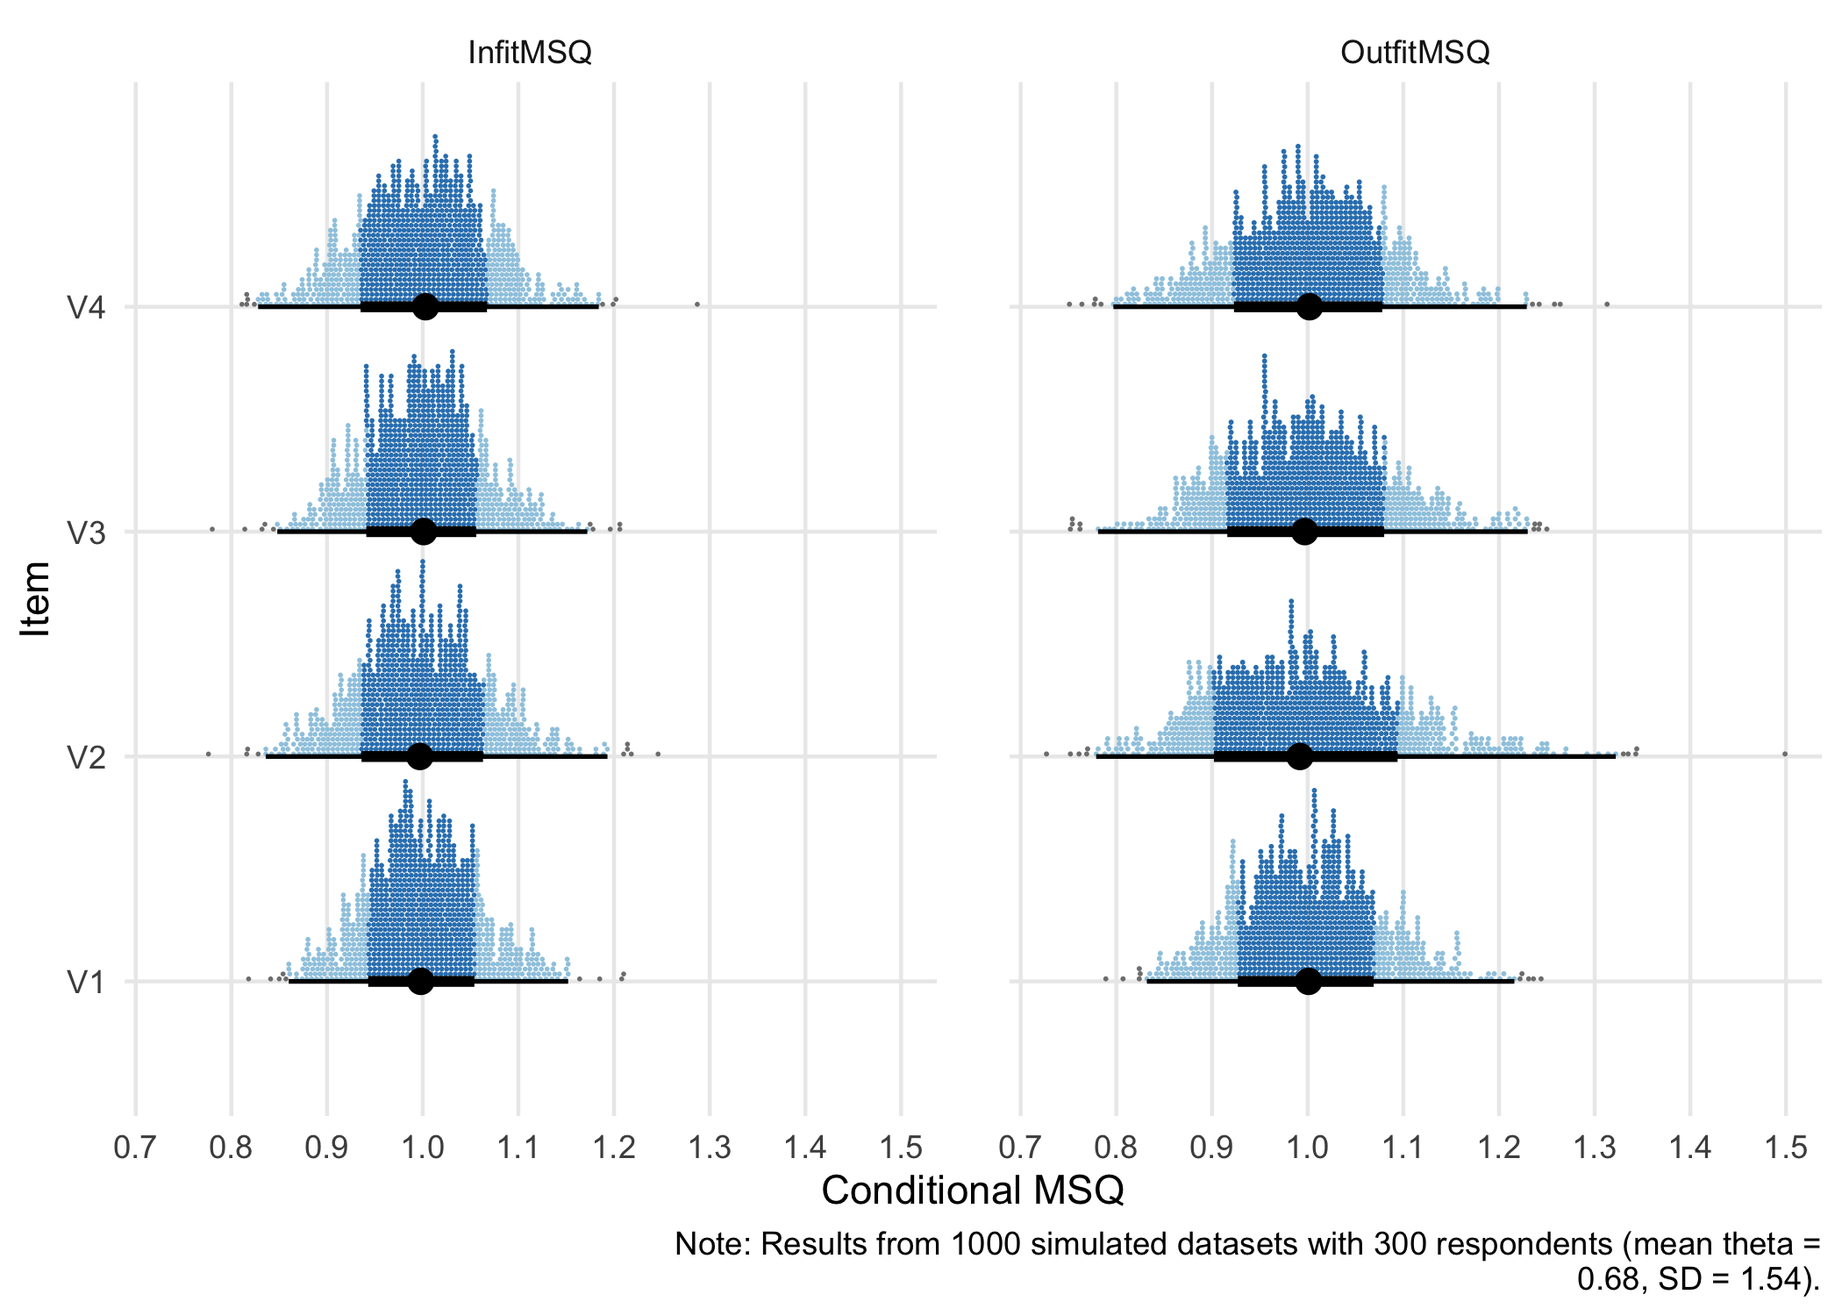
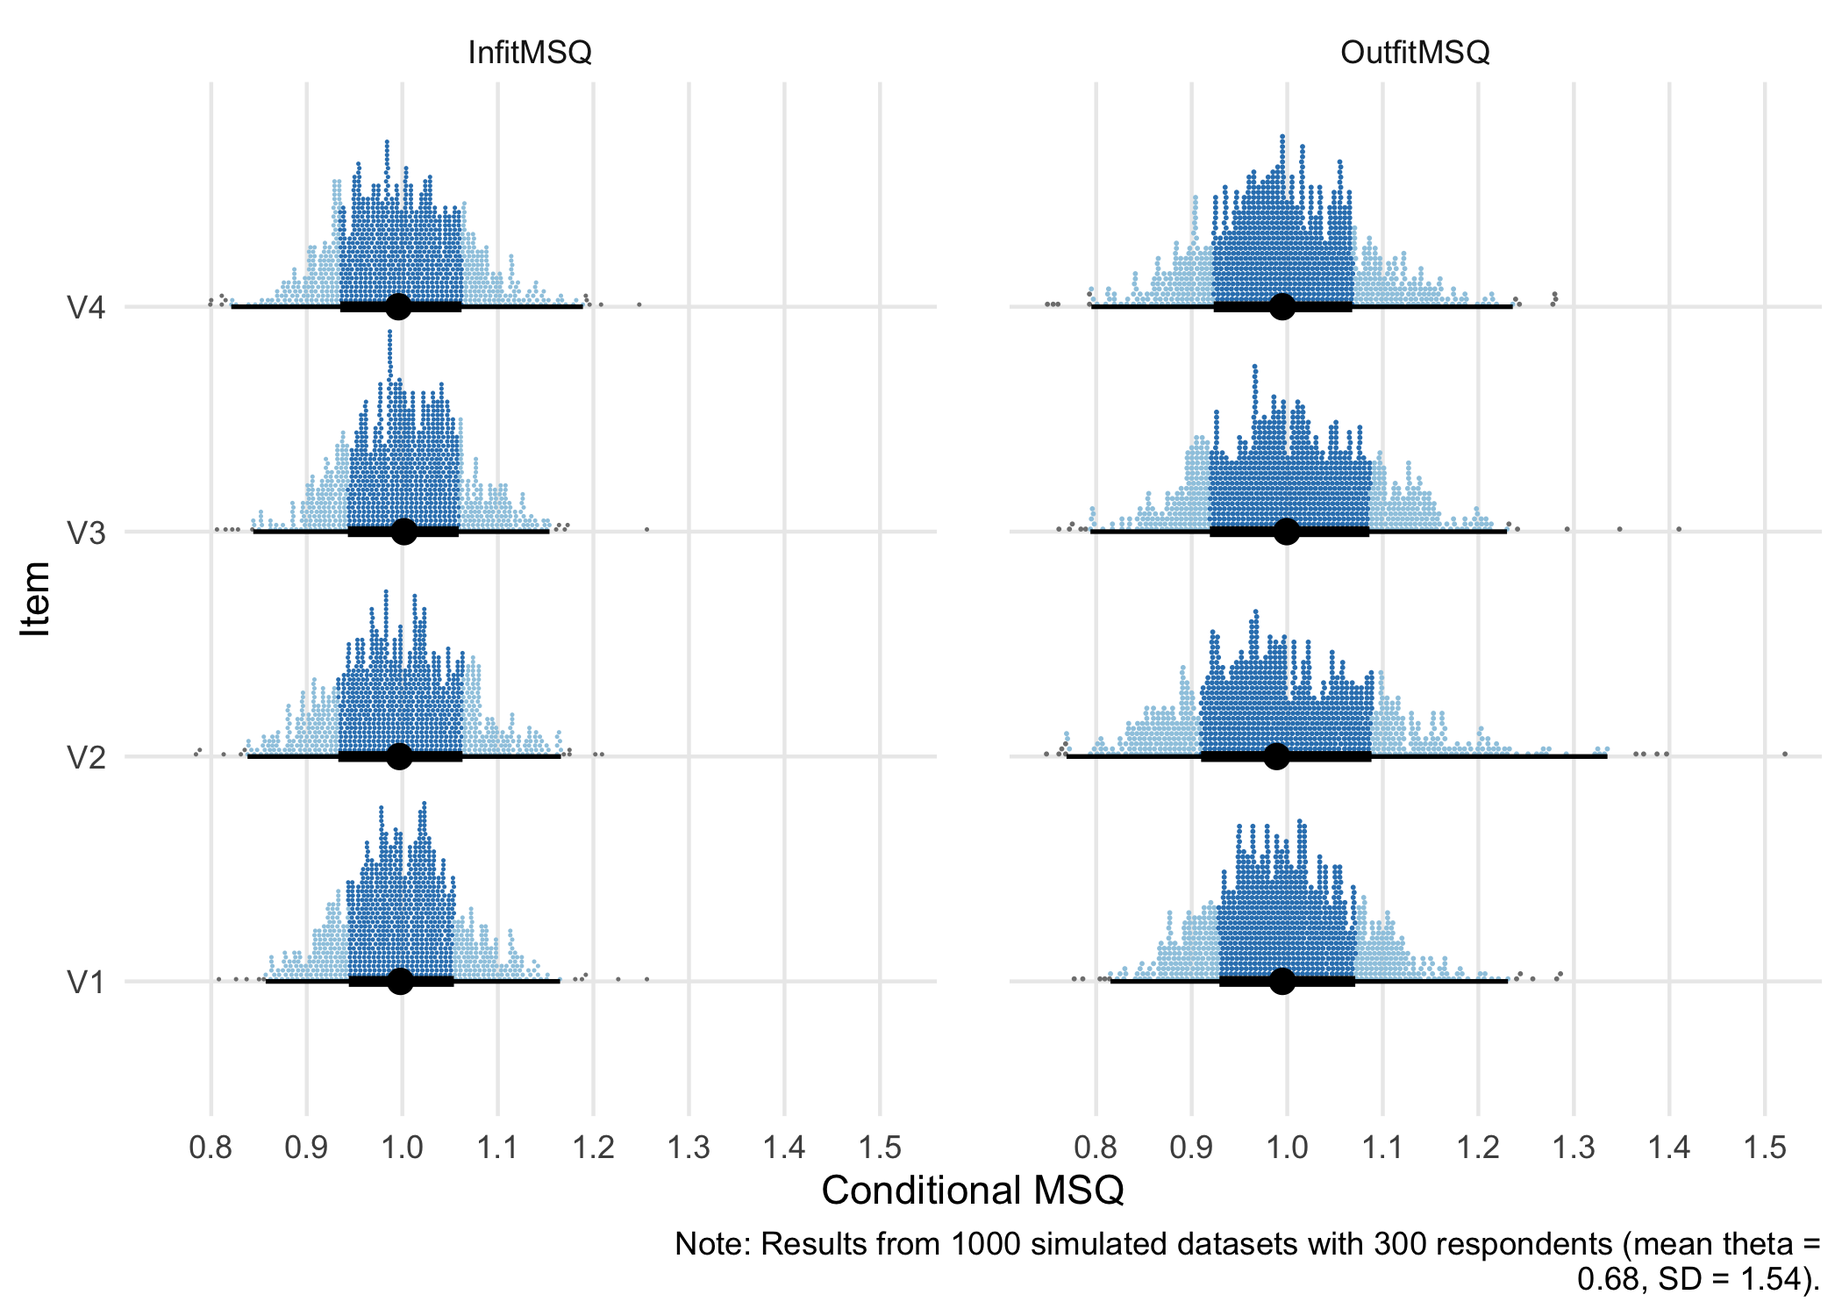
item fit updates

diff --git a/docs/simcutoffs.html b/docs/simcutoffs.html
@@ -277,17 +277,17 @@ div.csl-indent {
 </details><div class="cell-output cell-output-stdout">
 <pre><code>List of 8
  $ results    :'data.frame':    1000 obs. of  3 variables:
-  ..$ mean: num [1:1000] -0.264 -0.264 -0.249 -0.269 -0.251 ...
-  ..$ max : num [1:1000] -0.121 -0.165 -0.172 -0.155 -0.171 ...
-  ..$ diff: num [1:1000] 0.1424 0.0986 0.0765 0.1141 0.0801 ...
+  ..$ mean: num [1:1000] -0.256 -0.235 -0.262 -0.265 -0.259 ...
+  ..$ max : num [1:1000] -0.155 -0.175 -0.209 -0.206 -0.124 ...
+  ..$ diff: num [1:1000] 0.1009 0.0596 0.0523 0.0587 0.1344 ...
  $ sample_n   : int 300
  $ sample_mean: num 0.684
  $ sample_sd  : num 1.54
- $ max_diff   : num 0.231
- $ sd_diff    : num 0.0346
- $ p95        : Named num 0.152
+ $ max_diff   : num 0.221
+ $ sd_diff    : num 0.035
+ $ p95        : Named num 0.154
   ..- attr(*, "names")= chr "95%"
- $ p99        : Named num 0.183
+ $ p99        : Named num 0.192
   ..- attr(*, "names")= chr "99%"</code></pre>
 </div>
 </div>
@@ -337,7 +337,7 @@ div.csl-indent {
 <tfoot>
 <tr><td style="padding: 0; " colspan="100%"><span style="font-style: italic;">Note: </span></td></tr>
 <tr><td style="padding: 0; " colspan="100%">
-<sup></sup> Relative cut-off value (highlighted in red) is -0.043, which is 0.183 above the average correlation (-0.226).</td></tr>
+<sup></sup> Relative cut-off value (highlighted in red) is -0.034, which is 0.192 above the average correlation (-0.226).</td></tr>
 </tfoot>
 </table>
 </div>
@@ -355,7 +355,7 @@ div.csl-indent {
 <details open="" class="code-fold"><summary>Code</summary><div class="sourceCode" id="cb7"><pre class="downlit sourceCode r code-with-copy"><code class="sourceCode R"><span><span class="fu"><a href="https://rdrr.io/r/base/summary.html">summary</a></span><span class="op">(</span><span class="va">res_cor</span><span class="op">$</span><span class="va">results</span><span class="op">$</span><span class="va">diff</span><span class="op">)</span></span></code><button title="Copy to Clipboard" class="code-copy-button"><i class="bi"></i></button></pre></div>
 </details><div class="cell-output cell-output-stdout">
 <pre><code>   Min. 1st Qu.  Median    Mean 3rd Qu.    Max. 
-0.01759 0.06613 0.08683 0.09097 0.11274 0.23144 </code></pre>
+0.01686 0.06628 0.08726 0.09174 0.11379 0.22099 </code></pre>
 </div>
 </div>
 </section><section id="conditional-item-fit" class="level2" data-number="3"><h2 data-number="3" class="anchored" data-anchor-id="conditional-item-fit">
@@ -383,13 +383,13 @@ Note
 <details open="" class="code-fold"><summary>Code</summary><div class="sourceCode" id="cb10"><pre class="downlit sourceCode r code-with-copy"><code class="sourceCode R"><span><span class="va">itemfit_sim</span><span class="op">[[</span><span class="fl">1</span><span class="op">]</span><span class="op">]</span></span></code><button title="Copy to Clipboard" class="code-copy-button"><i class="bi"></i></button></pre></div>
 </details><div class="cell-output cell-output-stdout">
 <pre><code>  Item InfitMSQ OutfitMSQ
-1   V1    0.938     0.908
-2   V2    1.004     1.064
-3   V3    1.012     1.048
-4   V4    1.066     1.065</code></pre>
+1   V1    1.079     1.024
+2   V2    0.987     1.017
+3   V3    1.037     1.065
+4   V4    0.873     0.839</code></pre>
 </div>
 </div>
-<p>This object can in turn be used with three different functions. Most importantly, you can use it with <code><a href="https://rdrr.io/pkg/RISEkbmRasch/man/RIitemfit.html">RIitemfit()</a></code> to set cutoff values for both MSQ and ZSTD based on your sample size and item parameters. This uses the 1st and 99th percentile values for each individual item.</p>
+<p>This object can in turn be used with three different functions. Most importantly, you can use it with <code><a href="https://rdrr.io/pkg/RISEkbmRasch/man/RIitemfit.html">RIitemfit()</a></code> to set cutoff values for both MSQ and ZSTD based on your sample size and item parameters. <code><a href="https://rdrr.io/pkg/RISEkbmRasch/man/RIitemfit.html">RIitemfit()</a></code> uses the .05 and 99.5 percentile values for each individual item. The cutoff limit might be added as a user option later.</p>
 <div class="cell">
 <details open="" class="code-fold"><summary>Code</summary><div class="sourceCode" id="cb12"><pre class="downlit sourceCode r code-with-copy"><code class="sourceCode R"><span><span class="fu"><a href="https://rdrr.io/pkg/RISEkbmRasch/man/RIitemfit.html">RIitemfit</a></span><span class="op">(</span><span class="va">pcmdat2</span>, simcut <span class="op">=</span> <span class="va">itemfit_sim</span><span class="op">)</span></span></code><button title="Copy to Clipboard" class="code-copy-button"><i class="bi"></i></button></pre></div>
 </details><div class="cell-output-display">
@@ -405,30 +405,30 @@ Note
 <tr>
 <td style="text-align:left;"> I1 </td>
    <td style="text-align:left;"> <span style="     color: black !important;">1.08</span> </td>
-   <td style="text-align:left;"> [0.874, 1.141] </td>
+   <td style="text-align:left;"> [0.857, 1.165] </td>
    <td style="text-align:left;"> <span style="     color: black !important;">1.069</span> </td>
-   <td style="text-align:left;"> [0.844, 1.192] </td>
+   <td style="text-align:left;"> [0.815, 1.231] </td>
   </tr>
 <tr>
 <td style="text-align:left;"> I2 </td>
    <td style="text-align:left;"> <span style="     color: black !important;">1.155</span> </td>
-   <td style="text-align:left;"> [0.854, 1.164] </td>
+   <td style="text-align:left;"> [0.838, 1.166] </td>
    <td style="text-align:left;"> <span style="     color: black !important;">1.084</span> </td>
-   <td style="text-align:left;"> [0.792, 1.269] </td>
+   <td style="text-align:left;"> [0.769, 1.335] </td>
   </tr>
 <tr>
 <td style="text-align:left;"> I3 </td>
    <td style="text-align:left;"> <span style="     color: red !important;">0.828</span> </td>
-   <td style="text-align:left;"> [0.866, 1.146] </td>
-   <td style="text-align:left;"> <span style="     color: red !important;">0.802</span> </td>
-   <td style="text-align:left;"> [0.806, 1.217] </td>
+   <td style="text-align:left;"> [0.844, 1.154] </td>
+   <td style="text-align:left;"> <span style="     color: black !important;">0.802</span> </td>
+   <td style="text-align:left;"> [0.794, 1.23] </td>
   </tr>
 <tr>
 <td style="text-align:left;"> I4 </td>
    <td style="text-align:left;"> <span style="     color: black !important;">1.007</span> </td>
-   <td style="text-align:left;"> [0.837, 1.165] </td>
+   <td style="text-align:left;"> [0.821, 1.189] </td>
    <td style="text-align:left;"> <span style="     color: black !important;">1.024</span> </td>
-   <td style="text-align:left;"> [0.813, 1.198] </td>
+   <td style="text-align:left;"> [0.795, 1.236] </td>
   </tr>
 </tbody>
 <tfoot>
@@ -486,15 +486,18 @@ attached base packages:
  [8] datasets  methods   base     
 
 other attached packages:
- [1] RASCHplot_0.1.0    ggdist_3.3.2       doParallel_1.0.17  iterators_1.0.14  
- [5] foreach_1.5.2      RISEkbmRasch_0.2.2 janitor_2.2.0      iarm_0.4.3        
- [9] hexbin_1.28.3      catR_3.17          glue_1.7.0         ggrepel_0.9.5     
-[13] patchwork_1.2.0    reshape_0.8.9      matrixStats_1.3.0  psychotree_0.16-1 
-[17] psychotools_0.7-4  partykit_1.2-21    mvtnorm_1.2-5      libcoin_1.0-10    
-[21] psych_2.4.6.26     mirt_1.42          lattice_0.22-6     eRm_1.0-6         
-[25] lubridate_1.9.3    forcats_1.0.0      stringr_1.5.1      dplyr_1.1.4       
-[29] purrr_1.0.2        readr_2.1.5        tidyr_1.3.1        tibble_3.2.1      
-[33] ggplot2_3.5.1      tidyverse_2.0.0    kableExtra_1.4.0   formattable_0.2.1 
+ [1] RASCHplot_0.1.0      ggdist_3.3.2         doParallel_1.0.17   
+ [4] iterators_1.0.14     foreach_1.5.2        RISEkbmRasch_0.2.2.1
+ [7] janitor_2.2.0        iarm_0.4.3           hexbin_1.28.3       
+[10] catR_3.17            glue_1.7.0           ggrepel_0.9.5       
+[13] patchwork_1.2.0      reshape_0.8.9        matrixStats_1.3.0   
+[16] psychotree_0.16-1    psychotools_0.7-4    partykit_1.2-21     
+[19] mvtnorm_1.2-5        libcoin_1.0-10       psych_2.4.6.26      
+[22] mirt_1.42            lattice_0.22-6       eRm_1.0-6           
+[25] lubridate_1.9.3      forcats_1.0.0        stringr_1.5.1       
+[28] dplyr_1.1.4          purrr_1.0.2          readr_2.1.5         
+[31] tidyr_1.3.1          tibble_3.2.1         ggplot2_3.5.1       
+[34] tidyverse_2.0.0      kableExtra_1.4.0     formattable_0.2.1   
 
 loaded via a namespace (and not attached):
   [1] later_1.3.2          splines_4.4.1        R.oo_1.26.0         
@@ -1119,7 +1122,7 @@ window.document.addEventListener("DOMContentLoaded", function (event) {
 <span id="cb17-84"><a href="#cb17-84" aria-hidden="true" tabindex="-1"></a>While conditional item fit is a huge step towards getting correct item fit values <span class="co">[</span><span class="ot">@christensen_item_2012;@muller_item_2020;@buchardt_visualizing_2023</span><span class="co">]</span>, we also need to know the range of values that are plausible for items fitting the Rasch model in the current context. The specific properties of the sample and the items is used to simulate multiple datasets that fit the Rasch model, to understand the variation in item fit that can be expected. The simulation results can then be compared with the observed data.</span>
 <span id="cb17-85"><a href="#cb17-85" aria-hidden="true" tabindex="-1"></a></span>
 <span id="cb17-86"><a href="#cb17-86" aria-hidden="true" tabindex="-1"></a>::: {.callout-note}</span>
-<span id="cb17-87"><a href="#cb17-87" aria-hidden="true" tabindex="-1"></a>We will use 1000 simulations, but no extensive tests have been made (yet) to determine a reasonable number of simulations. The more items/thresholds and the bigger your sample size, the more time this simulation will take. If you have more cpu cores, this will reduce the time (please remember to not use all cores, leave 1-2 unused). To give some reference, the code below (n = 300, 4 items, 4 response categories) using 500 iterations took 7.7 seconds on 8 cpu cores and 11.7 seconds on 4 cores. 1000 iterations on 8 cores took 12.8 seconds (based on single runs).</span>
+<span id="cb17-87"><a href="#cb17-87" aria-hidden="true" tabindex="-1"></a>We will use 1000 simulations, but no extensive tests have been made (yet) to determine a reasonable number of simulations. The more items/thresholds and the bigger your sample size, the more time this simulation will take. If you have more cpu cores, this will reduce the time (please remember to not use all cores, leave 1-2 unused). To give some reference, the code below (n = 300, 4 items, 4 response categories per item) using 500 iterations took 7.7 seconds on 8 cpu cores and 11.7 seconds on 4 cores. 1000 iterations on 8 cores took 12.8 seconds (based on single runs).</span>
 <span id="cb17-88"><a href="#cb17-88" aria-hidden="true" tabindex="-1"></a>:::</span>
 <span id="cb17-89"><a href="#cb17-89" aria-hidden="true" tabindex="-1"></a></span>
 <span id="cb17-92"><a href="#cb17-92" aria-hidden="true" tabindex="-1"></a><span class="in">```{r}</span></span>
@@ -1134,37 +1137,38 @@ window.document.addEventListener("DOMContentLoaded", function (event) {
 <span id="cb17-103"><a href="#cb17-103" aria-hidden="true" tabindex="-1"></a>This object can in turn be used with three different</span>
 <span id="cb17-104"><a href="#cb17-104" aria-hidden="true" tabindex="-1"></a>functions. Most importantly, you can use it with <span class="in">`RIitemfit()`</span> to set</span>
 <span id="cb17-105"><a href="#cb17-105" aria-hidden="true" tabindex="-1"></a>cutoff values for both MSQ and ZSTD based on your sample size and item</span>
-<span id="cb17-106"><a href="#cb17-106" aria-hidden="true" tabindex="-1"></a>parameters. This uses the 1st and 99th percentile values for each individual item.</span>
-<span id="cb17-107"><a href="#cb17-107" aria-hidden="true" tabindex="-1"></a></span>
-<span id="cb17-110"><a href="#cb17-110" aria-hidden="true" tabindex="-1"></a><span class="in">```{r}</span></span>
-<span id="cb17-111"><a href="#cb17-111" aria-hidden="true" tabindex="-1"></a><span class="fu">RIitemfit</span>(pcmdat2, <span class="at">simcut =</span> itemfit_sim)</span>
-<span id="cb17-112"><a href="#cb17-112" aria-hidden="true" tabindex="-1"></a><span class="in">```</span></span>
-<span id="cb17-113"><a href="#cb17-113" aria-hidden="true" tabindex="-1"></a></span>
-<span id="cb17-114"><a href="#cb17-114" aria-hidden="true" tabindex="-1"></a>The function <span class="in">`RIgetfitPlot()`</span> uses the package <span class="in">`ggdist`</span> to plot the</span>
-<span id="cb17-115"><a href="#cb17-115" aria-hidden="true" tabindex="-1"></a>distribution of fit values from the simulation results.</span>
-<span id="cb17-116"><a href="#cb17-116" aria-hidden="true" tabindex="-1"></a></span>
-<span id="cb17-119"><a href="#cb17-119" aria-hidden="true" tabindex="-1"></a><span class="in">```{r}</span></span>
-<span id="cb17-120"><a href="#cb17-120" aria-hidden="true" tabindex="-1"></a><span class="fu">RIgetfitPlot</span>(itemfit_sim)</span>
-<span id="cb17-121"><a href="#cb17-121" aria-hidden="true" tabindex="-1"></a><span class="in">```</span></span>
-<span id="cb17-122"><a href="#cb17-122" aria-hidden="true" tabindex="-1"></a></span>
-<span id="cb17-123"><a href="#cb17-123" aria-hidden="true" tabindex="-1"></a><span class="fu">## Visualizing conditional fit</span></span>
-<span id="cb17-124"><a href="#cb17-124" aria-hidden="true" tabindex="-1"></a></span>
-<span id="cb17-125"><a href="#cb17-125" aria-hidden="true" tabindex="-1"></a>As a side note, a graphical representation of conditional item fit across class intervals <span class="co">[</span><span class="ot">@buchardt_visualizing_2023</span><span class="co">]</span> can be helpful to further analyze our observed data.</span>
-<span id="cb17-126"><a href="#cb17-126" aria-hidden="true" tabindex="-1"></a></span>
-<span id="cb17-129"><a href="#cb17-129" aria-hidden="true" tabindex="-1"></a><span class="in">```{r}</span></span>
-<span id="cb17-130"><a href="#cb17-130" aria-hidden="true" tabindex="-1"></a><span class="fu">library</span>(RASCHplot) <span class="co"># devtools::install_github("ERRTG/RASCHplot")</span></span>
-<span id="cb17-131"><a href="#cb17-131" aria-hidden="true" tabindex="-1"></a><span class="fu">CICCplot</span>(<span class="fu">PCM</span>(pcmdat2), <span class="at">which.item =</span> <span class="dv">1</span><span class="sc">:</span><span class="dv">4</span>, <span class="at">grid.items =</span> <span class="cn">TRUE</span>)</span>
-<span id="cb17-132"><a href="#cb17-132" aria-hidden="true" tabindex="-1"></a><span class="in">```</span></span>
-<span id="cb17-133"><a href="#cb17-133" aria-hidden="true" tabindex="-1"></a></span>
+<span id="cb17-106"><a href="#cb17-106" aria-hidden="true" tabindex="-1"></a>parameters. <span class="in">`RIitemfit()`</span> uses the .05 and 99.5 percentile values for each individual item.</span>
+<span id="cb17-107"><a href="#cb17-107" aria-hidden="true" tabindex="-1"></a>The cutoff limit might be added as a user option later.</span>
+<span id="cb17-108"><a href="#cb17-108" aria-hidden="true" tabindex="-1"></a></span>
+<span id="cb17-111"><a href="#cb17-111" aria-hidden="true" tabindex="-1"></a><span class="in">```{r}</span></span>
+<span id="cb17-112"><a href="#cb17-112" aria-hidden="true" tabindex="-1"></a><span class="fu">RIitemfit</span>(pcmdat2, <span class="at">simcut =</span> itemfit_sim)</span>
+<span id="cb17-113"><a href="#cb17-113" aria-hidden="true" tabindex="-1"></a><span class="in">```</span></span>
+<span id="cb17-114"><a href="#cb17-114" aria-hidden="true" tabindex="-1"></a></span>
+<span id="cb17-115"><a href="#cb17-115" aria-hidden="true" tabindex="-1"></a>The function <span class="in">`RIgetfitPlot()`</span> uses the package <span class="in">`ggdist`</span> to plot the</span>
+<span id="cb17-116"><a href="#cb17-116" aria-hidden="true" tabindex="-1"></a>distribution of fit values from the simulation results.</span>
+<span id="cb17-117"><a href="#cb17-117" aria-hidden="true" tabindex="-1"></a></span>
+<span id="cb17-120"><a href="#cb17-120" aria-hidden="true" tabindex="-1"></a><span class="in">```{r}</span></span>
+<span id="cb17-121"><a href="#cb17-121" aria-hidden="true" tabindex="-1"></a><span class="fu">RIgetfitPlot</span>(itemfit_sim)</span>
+<span id="cb17-122"><a href="#cb17-122" aria-hidden="true" tabindex="-1"></a><span class="in">```</span></span>
+<span id="cb17-123"><a href="#cb17-123" aria-hidden="true" tabindex="-1"></a></span>
+<span id="cb17-124"><a href="#cb17-124" aria-hidden="true" tabindex="-1"></a><span class="fu">## Visualizing conditional fit</span></span>
+<span id="cb17-125"><a href="#cb17-125" aria-hidden="true" tabindex="-1"></a></span>
+<span id="cb17-126"><a href="#cb17-126" aria-hidden="true" tabindex="-1"></a>As a side note, a graphical representation of conditional item fit across class intervals <span class="co">[</span><span class="ot">@buchardt_visualizing_2023</span><span class="co">]</span> can be helpful to further analyze our observed data.</span>
+<span id="cb17-127"><a href="#cb17-127" aria-hidden="true" tabindex="-1"></a></span>
+<span id="cb17-130"><a href="#cb17-130" aria-hidden="true" tabindex="-1"></a><span class="in">```{r}</span></span>
+<span id="cb17-131"><a href="#cb17-131" aria-hidden="true" tabindex="-1"></a><span class="fu">library</span>(RASCHplot) <span class="co"># devtools::install_github("ERRTG/RASCHplot")</span></span>
+<span id="cb17-132"><a href="#cb17-132" aria-hidden="true" tabindex="-1"></a><span class="fu">CICCplot</span>(<span class="fu">PCM</span>(pcmdat2), <span class="at">which.item =</span> <span class="dv">1</span><span class="sc">:</span><span class="dv">4</span>, <span class="at">grid.items =</span> <span class="cn">TRUE</span>)</span>
+<span id="cb17-133"><a href="#cb17-133" aria-hidden="true" tabindex="-1"></a><span class="in">```</span></span>
 <span id="cb17-134"><a href="#cb17-134" aria-hidden="true" tabindex="-1"></a></span>
-<span id="cb17-135"><a href="#cb17-135" aria-hidden="true" tabindex="-1"></a><span class="fu">## Session info</span></span>
-<span id="cb17-136"><a href="#cb17-136" aria-hidden="true" tabindex="-1"></a></span>
-<span id="cb17-139"><a href="#cb17-139" aria-hidden="true" tabindex="-1"></a><span class="in">```{r}</span></span>
-<span id="cb17-140"><a href="#cb17-140" aria-hidden="true" tabindex="-1"></a><span class="fu">sessionInfo</span>()</span>
-<span id="cb17-141"><a href="#cb17-141" aria-hidden="true" tabindex="-1"></a><span class="in">```</span></span>
-<span id="cb17-142"><a href="#cb17-142" aria-hidden="true" tabindex="-1"></a></span>
-<span id="cb17-143"><a href="#cb17-143" aria-hidden="true" tabindex="-1"></a><span class="fu">## References</span></span>
-<span id="cb17-144"><a href="#cb17-144" aria-hidden="true" tabindex="-1"></a></span>
+<span id="cb17-135"><a href="#cb17-135" aria-hidden="true" tabindex="-1"></a></span>
+<span id="cb17-136"><a href="#cb17-136" aria-hidden="true" tabindex="-1"></a><span class="fu">## Session info</span></span>
+<span id="cb17-137"><a href="#cb17-137" aria-hidden="true" tabindex="-1"></a></span>
+<span id="cb17-140"><a href="#cb17-140" aria-hidden="true" tabindex="-1"></a><span class="in">```{r}</span></span>
+<span id="cb17-141"><a href="#cb17-141" aria-hidden="true" tabindex="-1"></a><span class="fu">sessionInfo</span>()</span>
+<span id="cb17-142"><a href="#cb17-142" aria-hidden="true" tabindex="-1"></a><span class="in">```</span></span>
+<span id="cb17-143"><a href="#cb17-143" aria-hidden="true" tabindex="-1"></a></span>
+<span id="cb17-144"><a href="#cb17-144" aria-hidden="true" tabindex="-1"></a><span class="fu">## References</span></span>
+<span id="cb17-145"><a href="#cb17-145" aria-hidden="true" tabindex="-1"></a></span>
 </code><button title="Copy to Clipboard" class="code-copy-button" data-in-quarto-modal=""><i class="bi"></i></button></pre></div>
 </div></div></div></div></div>
 </div> <!-- /content -->
